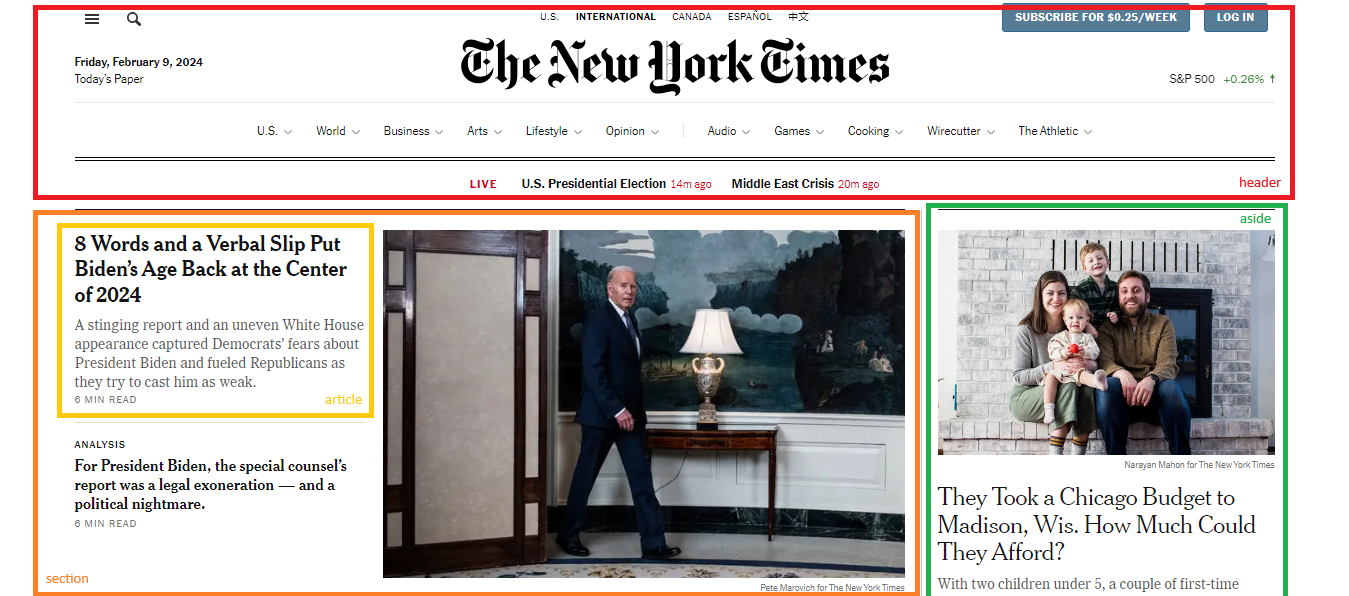
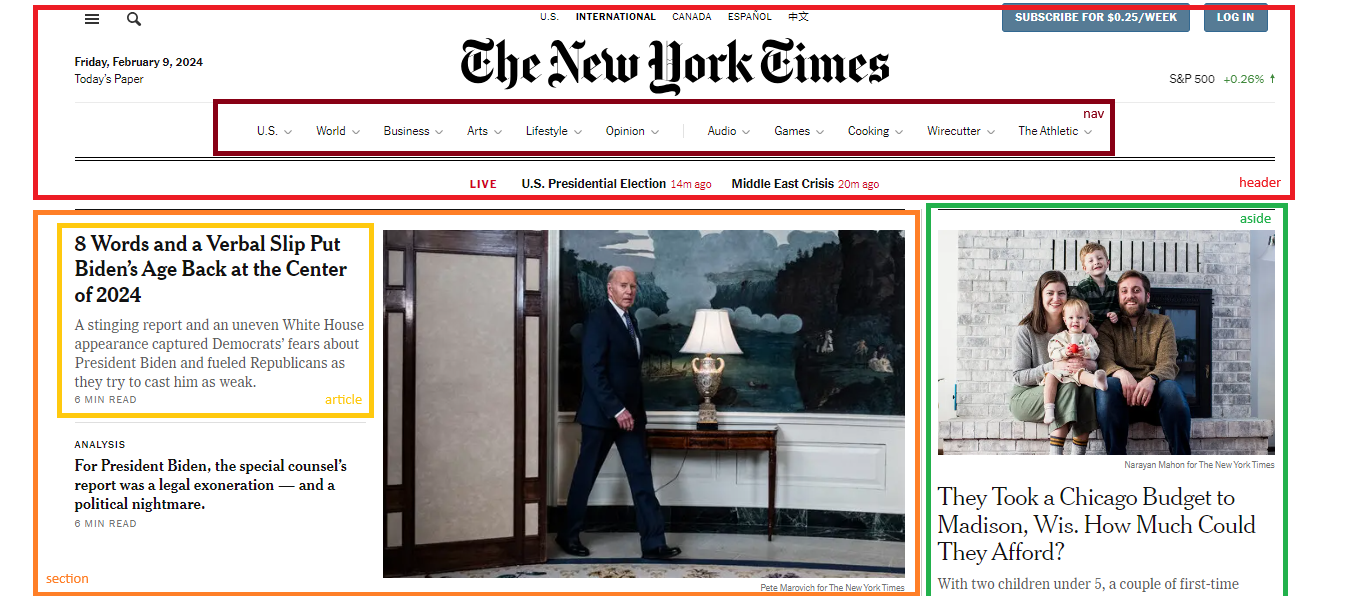
Adicionar conteúdo da seção de textos e hyperlinks

Changed region(s): [[0.1557, 0.151, 0.8406, 0.2718]]

diff --git a/index.html b/index.html
@@ -12,19 +12,30 @@
     * {
         font-family: 'Open Sans', sans-serif;
     }
+    dt{ 
+        font-weight: bold;
+    }
 </style>
 <body>
     <header>
         <h1>HTML - Principais tags</h1>
         <p>Este documento conterá um estudo sobre as principais tags básicas do HTML, suas descrições e possíveis casos de uso.</p>
         <p>É importante lembrar que as tags são elementos que são envoltos de sinais de menor e maior (tag de abertura) e sinais de menor, barra e sinal de maior (tag de fechamento). Há também tags que são denominadas auto-fechantes, de modo que estas não tem tags de abertura e fechamento, mas são uma tag só aberta com um sinal de menor e fechada com barra e sinal de maior.</p>
+        <hr>
+        <nav>
+            <a href="#cabecalho">Cabeçalho e estrutura do documento HTML</a>
+            <a href="#semantico">HTML Semântico e divisores</a>
+            <a href="#textos">Textos e Hyperlinks</a>
+            <a href="#listas">Listas e Tabelas</a>
+            <a href="#midias">Mídias</a>
+        </nav>
     </header>
     <hr>
-    <section>
+    <section id="cabecalho">
         <h2>Cabeçalho e estrutura do documento HTML</h2>
         <!-- doctype, html, head, meta, link, title, style, body, script, main -->
     </section>
-    <section>
+    <section id="semantico">
         <h2>HTML Semântico e divisores</h2>
         <article>
             <h3>HTML Semântico</h3> 
@@ -32,6 +43,8 @@
             <dl>
                 <dt>header</dt>
                 <dd>Define uma seção introdutória, onde se tem, normalmente, links de navegação, ícone para a home page da aplicação que se está visualizando ou o título da página.</dd>
+                <dt>nav</dt>
+                <dd>Define uma seção de navegação da página, em geral associada ao header.</dd>
                 <dt>section</dt>
                 <dd>Define uma seção dentro do documento cujo conteúdo possui um tema específico, como, por exemplo, um conjunto de notícias.</dd>
                 <dt>article</dt>
@@ -43,8 +56,8 @@
             </dl>
 
             <figure>
-                <img src="/images/nyt1.png" alt="Imagem do site do jornal New York Times com indicativos de quais partes do site representariam as tags header, section, article e aside">
-                <figcaption>Exemplos de possíveis header, section, article e aside no site do The New York Times</figcaption>
+                <img src="/images/nyt1.png" alt="Imagem do site do jornal New York Times com indicativos de quais partes do site representariam as tags header, nav, section, article e aside">
+                <figcaption>Exemplos de possíveis header, nav, section, article e aside no site do The New York Times</figcaption>
             </figure>
             <br>
             <figure>
@@ -52,17 +65,94 @@
                 <figcaption>Exemplo de possível footer no site do The New York Times</figcaption>
             </figure>
         </article>
-        <!-- div, span, br, hr -->
+        
+        <article>
+            <h3>Divisores</h3>
+            <p>Há também algumas tags de divisões de documento comumente utilizadas como div, span, hr e br.</p>
+            <dl>
+                <dt>div</dt>
+                <dd>É um divisor genérico e não semântico que define um bloco de código.</dd>
+                <dt>span</dt>
+                <dd>É uma tag utilizada quando se gostaria de realizar uma separação inline de elementos. Geralmente utilizada para separação de itens para estilização diferenciada.</dd>
+                <dt>hr</dt>
+                <dd>Representa uma linha horizontal desenhada no documento, utilizada para divisão de seções.</dd>
+                <dt>br</dt>
+                <dd>Representa uma quebra de linha. Geralmente utilizada para criar uma separação em seções ou parágrafos de um documento HTML, sem a utilização de estilização CSS.</dd>
+            </dl>
+        </article>
     </section>
-    <section>
+    <hr>
+    <section id="textos">
         <h2>Textos e Hyperlinks</h2>
-        <!-- h1 a h6, p, a, b, em, i, small, strong, sub, sup, ins, del, mark, code -->
+        <dl>
+            <dt>h1, h2, h3, h4, h5 e h6</dt>
+            <dd>Tags de título e subtítulos. Utilizados em hierarquias, sendo h1 o maior título entre todos e h6, o menor. É recomendado que haja apenas uma tag h1 no documento HTML, contendo o título principal da página, e que demais subtítulos sejam tags h2 ou menores.</dd>
+            <dt>p</dt>
+            <dd>Tag de parágrafo, delimita um bloco de texto.</dd>
+            <dt>a</dt>
+            <dd>Tag de hyperlink, cria uma conexão para outra parte do documento ou outra página fora do documento HTML em questão. Possui como atributo principal o <i>href</i>, que contém informação de para onde o hyperlink irá levar. Pode possuir outros atributos como <i>target</i> ou <i>download</i>, a depender da função do hyperlink.</dd>
+            <dt>em</dt>
+            <dd>Visualmente, aplica um estilo em itálico no texto, mas é uma tag utilizada para indicar uma ênfase no texto.</dd>
+            <dt>strong</dt>
+            <dd>Visualmente, aplica um estilo em negrito no texto, mas é uma tag utilizada para indicar um texto de alta importância no documento.</dd>
+            <dt>ins</dt>
+            <dd>Visualmente, aplica um estilo sublinhado no texto, mas indica um bloco de texto que foi inserido no documento.</dd>
+            <dt>del</dt>
+            <dd>Visualmente, aplica um estilo riscado no texto, mas indica um bloco de texto que deveria ser desconsiderado.</dd>
+        </dl>
+        <h3>Tags de estilização de texto</h3>
+        <table border="all">
+            <!-- Sei que o border da tabela está deprecated no HTML, utilizando aqui só mesmo pra fins de utilizar o mínimo de CSS possível -->
+            <thead>
+                <tr>
+                    <th>Tag</th>
+                    <th>Descrição</th>
+                    <th>Demonstração</th>
+                </tr>
+            </thead>
+            <tbody>
+                <tr>
+                    <th>b</th>
+                    <td>Deixa o texto em negrito</td>
+                    <td><b>Texto de exemplo</b></td>
+                </tr>
+                <tr>
+                    <th>i</th>
+                    <td>Deixa o texto em itálico</td>
+                    <td><i>Texto de exemplo</i></td>
+                </tr>
+                <tr>
+                    <th>sub</th>
+                    <td>Deixa o texto subscrito</td>
+                    <td><sub>Texto</sub>de exemplo</td>
+                </tr>
+                <tr>
+                    <th>sup</th>
+                    <td>Deixa o texto sobrescrito</td>
+                    <td><sup>Texto</sup>de exemplo</td>
+                </tr>
+                <tr>
+                    <th>small</th>
+                    <td>Deixa o texto menor em relação à fonte padrão, sem a utilização de estilização CSS.</td>
+                    <td><small>Texto</small> de exemplo</td>
+                </tr>
+                <tr>
+                    <th>mark</th>
+                    <td>Deixa o texto marcado com fundo amarelo, tal qual um marca texto</td>
+                    <td><mark>Texto de exemplo</mark></td>
+                </tr>
+            </tbody>
+            
+        </table>
+        <!--  ins, del -->
     </section>
-    <section>
+    <hr>
+    <section id="listas">
         <h2>Listas e Tabelas</h2>
         <!-- dl, dt, dd, ul, ol, li, table, td, tr, th, colgroup, rowgroup -->
     </section>
-    <section>
+    <hr>
+    <section id="midias">
         <h2>Mídias</h2>
         <!-- img, figure, audio, video, svg, picture, srcset -->
     </section>
